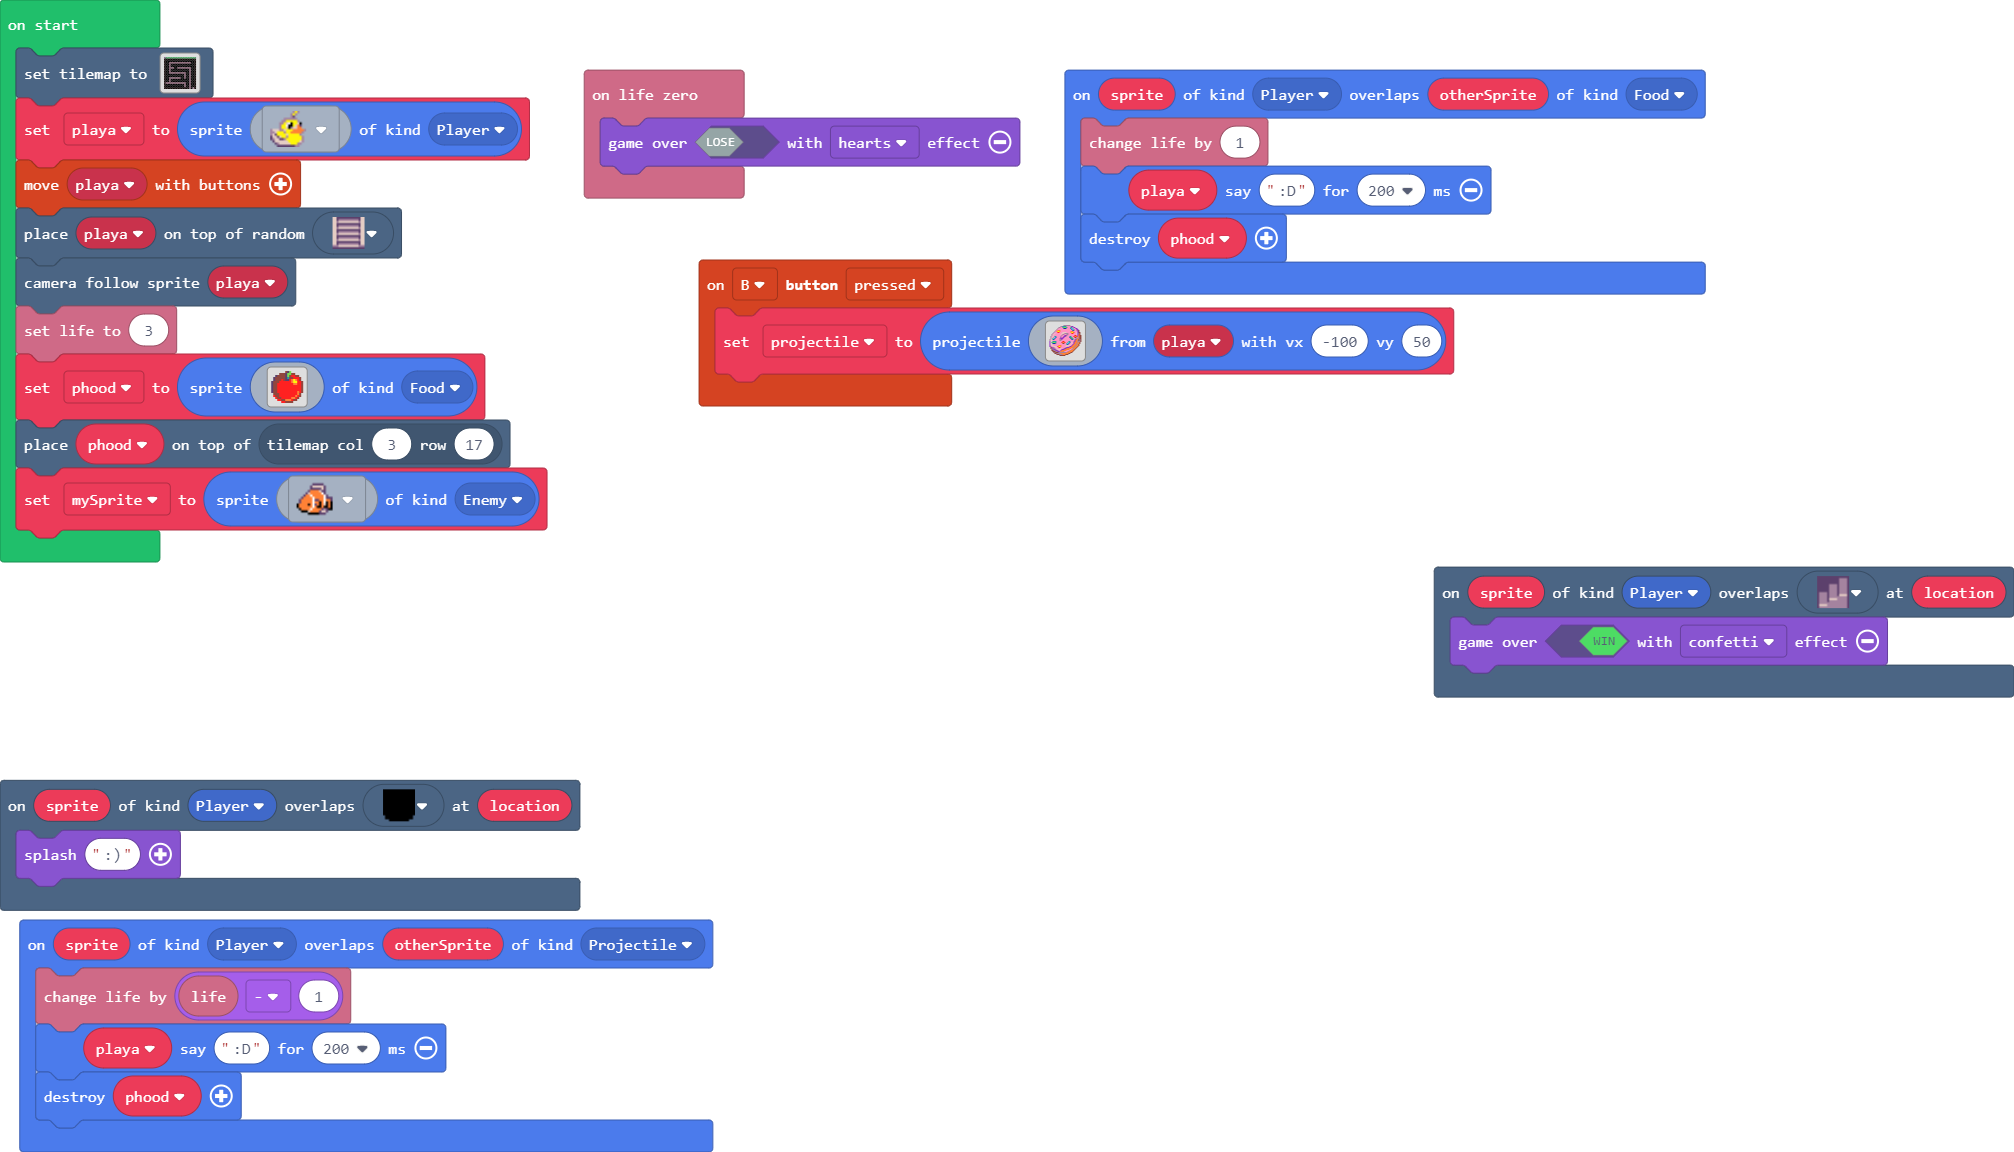
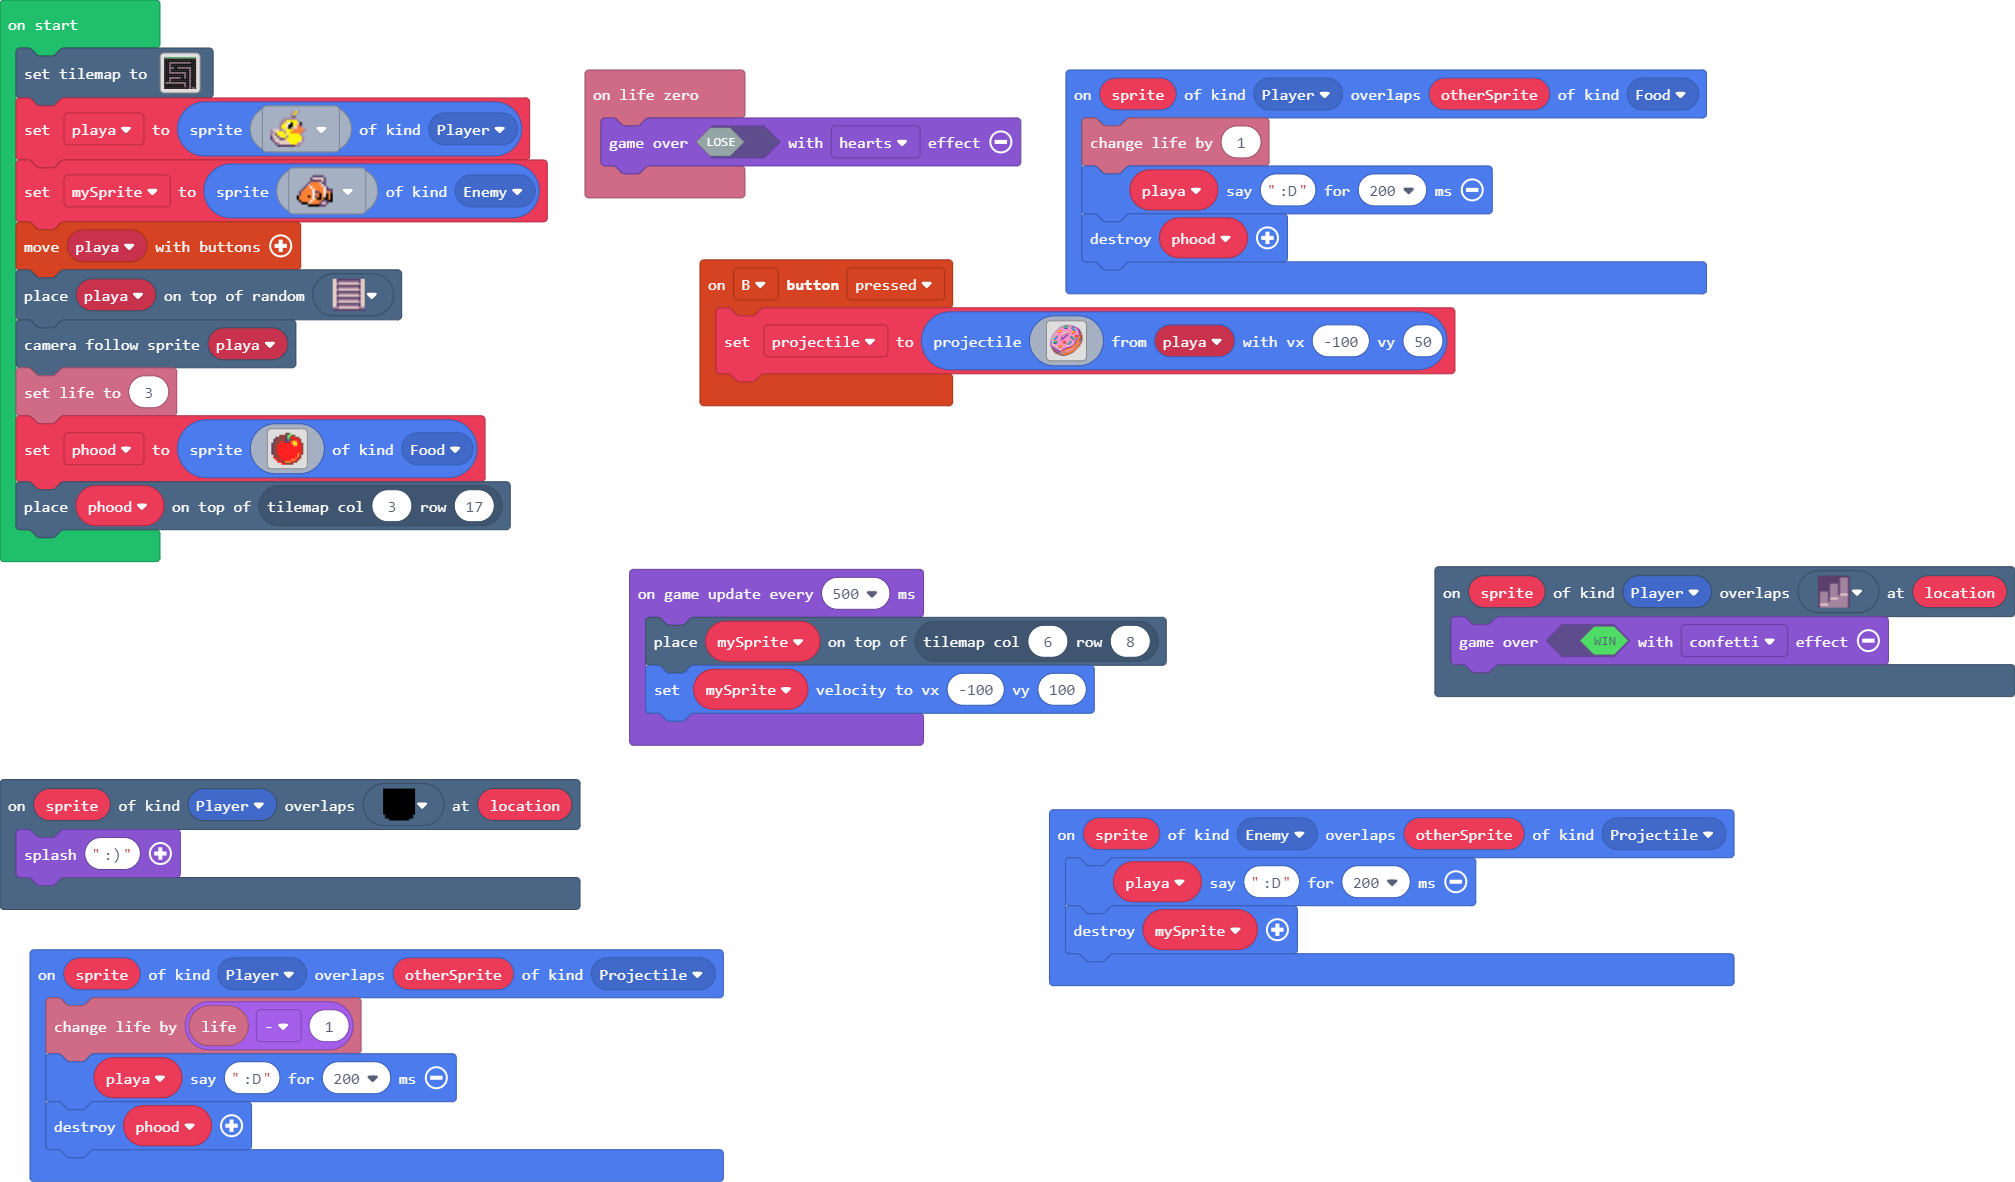
hjgjh

diff --git a/main.ts b/main.ts
@@ -66,6 +66,10 @@ sprites.onOverlap(SpriteKind.Player, SpriteKind.Food, function (sprite, otherSpr
 scene.onOverlapTile(SpriteKind.Player, sprites.dungeon.stairLarge, function (sprite, location) {
     game.over(true, effects.confetti)
 })
+sprites.onOverlap(SpriteKind.Enemy, SpriteKind.Projectile, function (sprite, otherSprite) {
+    playa.say(":D", 200)
+    mySprite.destroy()
+})
 sprites.onOverlap(SpriteKind.Player, SpriteKind.Projectile, function (sprite, otherSprite) {
     info.changeLifeBy(info.life() - 1)
     playa.say(":D", 200)
@@ -76,6 +80,7 @@ info.onLifeZero(function () {
 })
 let projectile: Sprite = null
 let phood: Sprite = null
+let mySprite: Sprite = null
 let playa: Sprite = null
 tiles.setTilemap(tiles.createTilemap(
[1 lines of base64/hex data omitted]
@@ -104,6 +109,7 @@ tiles.setTilemap(tiles.createTilemap(
             TileScale.Sixteen
         ))
 playa = sprites.create(sprites.duck.duck3, SpriteKind.Player)
+mySprite = sprites.create(sprites.builtin.clownFish1, SpriteKind.Enemy)
 controller.moveSprite(playa)
 tiles.placeOnRandomTile(playa, sprites.dungeon.stairNorth)
 scene.cameraFollowSprite(playa)
@@ -127,4 +133,7 @@ c e e 2 2 2 2 2 2 2 2 2 2 4 2 e
 . . . . . 2 2 e e e e . . . . . 
 `, SpriteKind.Food)
 tiles.placeOnTile(phood, tiles.getTileLocation(3, 17))
-let mySprite = sprites.create(sprites.builtin.clownFish1, SpriteKind.Enemy)
+game.onUpdateInterval(500, function () {
+    tiles.placeOnTile(mySprite, tiles.getTileLocation(6, 8))
+    mySprite.setVelocity(-100, 100)
+})
